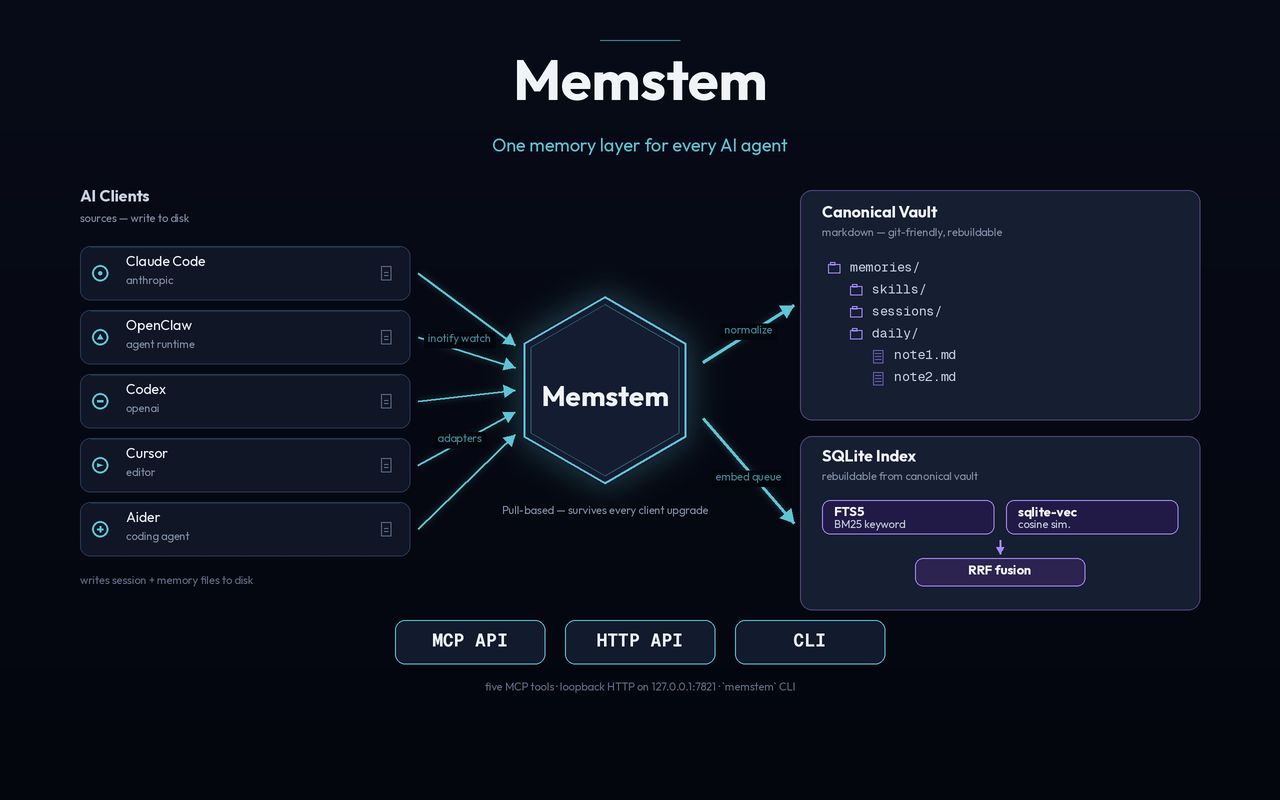
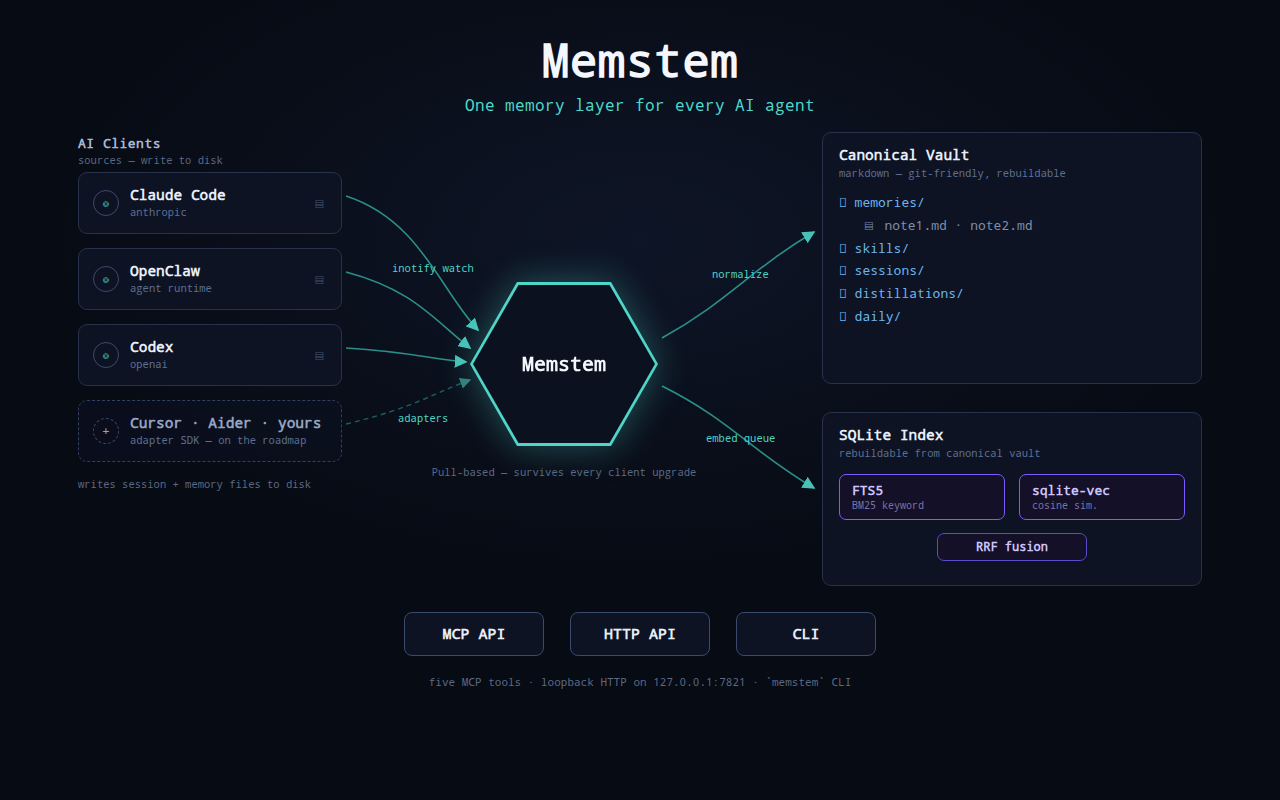
fix: hero image + README no longer overclaim adapter support (#141)
The hero diagram and README intro listed Cursor/Aider/Hermes as
connectable clients; only Claude Code, OpenClaw, and Codex adapters
exist (Cursor/Aider are unchecked Phase 3 roadmap items). The hero is
rebuilt from a committed HTML source (docs/images/src/hero.html — the
original was AI-image-generated with no editable source): three live
adapters plus a dashed roadmap card, vault tree gains distillations/
with correct sibling nesting, same visual identity. README/CLAUDE.md
text matched, and the HTTP bullet now notes 0.17.0's optional
bearer-token auth.

diff --git a/docs/images/src/hero.html b/docs/images/src/hero.html
@@ -1,0 +1,160 @@
+<!DOCTYPE html>
+<!-- Source for docs/images/hero.png — render at 1280x800 (see docs/images/src/README.md).
+     Edit this file and re-screenshot rather than regenerating the PNG by hand. -->
+<html>
+<head>
+<meta charset="utf-8">
+<style>
+  * { margin: 0; padding: 0; box-sizing: border-box; }
+  html, body { width: 1280px; height: 800px; overflow: hidden; }
+  body {
+    background: radial-gradient(ellipse 900px 500px at 50% 30%, #0e1526 0%, #070b14 65%);
+    font-family: ui-monospace, "SF Mono", "Cascadia Code", "JetBrains Mono", Menlo, Consolas, monospace;
+    color: #dbe4f3;
+    position: relative;
+  }
+  .title { position: absolute; top: 34px; width: 100%; text-align: center;
+    font-size: 46px; font-weight: 700; color: #f4f7fc; letter-spacing: 0.5px; }
+  .subtitle { position: absolute; top: 96px; width: 100%; text-align: center;
+    font-size: 16px; color: #4fd6c9; letter-spacing: 0.4px; }
+
+  .col-label { position: absolute; font-size: 13px; font-weight: 700; color: #aab8d4; letter-spacing: 0.5px; }
+  .col-note  { position: absolute; font-size: 10.5px; color: #5b6a85; }
+
+  .card { position: absolute; background: #0d1322; border: 1px solid #27314a; border-radius: 9px; }
+  .client-card { left: 78px; width: 264px; height: 62px; display: flex; align-items: center; padding: 0 14px; gap: 11px; }
+  .client-card .dot { width: 26px; height: 26px; border-radius: 50%; border: 1.5px solid #3b4a6b;
+    display: flex; align-items: center; justify-content: center; color: #4fd6c9; font-size: 13px; flex-shrink: 0; }
+  .client-card .nm { font-size: 14.5px; font-weight: 700; color: #e8eef9; }
+  .client-card .sub { font-size: 10.5px; color: #5f7094; margin-top: 2px; }
+  .client-card .doc { margin-left: auto; color: #44546f; font-size: 13px; }
+  .client-card.roadmap { border-style: dashed; border-color: #31405f; background: rgba(13,19,34,0.55); }
+  .client-card.roadmap .nm { color: #93a3c0; }
+  .client-card.roadmap .dot { color: #93a3c0; border-style: dashed; }
+
+  .hex-wrap { position: absolute; left: 470px; top: 282px; width: 188px; height: 164px;
+    filter: drop-shadow(0 0 18px rgba(79,214,201,0.35)); }
+  .hex-border { width: 188px; height: 164px; background: #4fd6c9;
+    clip-path: polygon(25% 0%, 75% 0%, 100% 50%, 75% 100%, 25% 100%, 0% 50%); position: absolute; }
+  .hex-inner { width: 182px; height: 158px; left: 3px; top: 3px; background: #0b111f;
+    clip-path: polygon(25% 0%, 75% 0%, 100% 50%, 75% 100%, 25% 100%, 0% 50%);
+    position: absolute; display: flex; align-items: center; justify-content: center; }
+  .hex-inner span { font-size: 20px; font-weight: 700; color: #f4f7fc; }
+  .hex-caption { position: absolute; left: 392px; top: 466px; width: 344px; text-align: center;
+    font-size: 10.5px; color: #5b6a85; }
+
+  .panel { padding: 14px 16px; }
+  .panel .hd { font-size: 14.5px; font-weight: 700; color: #e8eef9; }
+  .panel .hsub { font-size: 10.5px; color: #5f7094; margin-top: 3px; }
+  .vault { left: 822px; top: 132px; width: 380px; height: 252px; }
+  .tree { margin-top: 12px; font-size: 13px; line-height: 1.75; color: #9fb0cd; }
+  .tree .dir { color: #6db5f0; }
+  .tree .file { color: #7e8eab; }
+  .tree .ind1 { padding-left: 22px; }
+  .tree .ind2 { padding-left: 44px; }
+
+  .index { left: 822px; top: 412px; width: 380px; height: 174px; }
+  .chips { display: flex; gap: 14px; margin-top: 14px; }
+  .chip { border: 1.5px solid #7a5cff; border-radius: 7px; padding: 8px 12px; background: #131027; flex: 1; }
+  .chip .cn { font-size: 13px; font-weight: 700; color: #cfc4ff; }
+  .chip .cs { font-size: 10px; color: #7d74a8; margin-top: 2px; }
+  .fuse { margin: 13px auto 0; width: 150px; text-align: center; border: 1.5px solid #5a4bcf; border-radius: 7px;
+    padding: 6px 0; font-size: 12px; font-weight: 700; color: #cfc4ff; background: #131027; }
+
+  .api { position: absolute; top: 612px; height: 44px; border: 1.5px solid #3a4a6e; border-radius: 8px;
+    background: #0d1322; color: #e8eef9; font-size: 15px; font-weight: 700;
+    display: flex; align-items: center; justify-content: center; }
+  .footer { position: absolute; top: 676px; width: 100%; text-align: center; font-size: 11px; color: #5b6a85; }
+
+  .arrow-label { position: absolute; font-size: 10.5px; color: #4fd6c9; }
+  svg.arrows { position: absolute; left: 0; top: 0; width: 1280px; height: 800px; }
+</style>
+</head>
+<body>
+  <div class="title">Memstem</div>
+  <div class="subtitle">One memory layer for every AI agent</div>
+
+  <!-- arrows under the cards -->
+  <svg class="arrows" viewBox="0 0 1280 800">
+    <defs>
+      <marker id="ah" markerWidth="9" markerHeight="8" refX="7" refY="4" orient="auto">
+        <path d="M0,0 L8,4 L0,8 z" fill="#4fd6c9"/>
+      </marker>
+    </defs>
+    <g stroke="#2f9d93" stroke-width="1.6" fill="none" marker-end="url(#ah)" opacity="0.9">
+      <path d="M 346 196 C 420 220, 440 290, 478 330"/>
+      <path d="M 346 272 C 414 290, 434 320, 470 348"/>
+      <path d="M 346 348 C 414 352, 434 360, 466 362"/>
+      <path d="M 662 338 C 730 300, 750 270, 814 232"/>
+      <path d="M 662 386 C 730 420, 750 450, 814 488"/>
+    </g>
+    <g stroke="#2f9d93" stroke-width="1.4" fill="none" marker-end="url(#ah)" opacity="0.55" stroke-dasharray="5 4">
+      <path d="M 346 424 C 414 408, 436 392, 470 380"/>
+    </g>
+  </svg>
+
+  <div class="col-label" style="left:78px; top:136px;">AI Clients</div>
+  <div class="col-note" style="left:78px; top:154px;">sources — write to disk</div>
+
+  <div class="card client-card" style="top:172px;">
+    <div class="dot">◎</div>
+    <div><div class="nm">Claude Code</div><div class="sub">anthropic</div></div>
+    <div class="doc">▤</div>
+  </div>
+  <div class="card client-card" style="top:248px;">
+    <div class="dot">◎</div>
+    <div><div class="nm">OpenClaw</div><div class="sub">agent runtime</div></div>
+    <div class="doc">▤</div>
+  </div>
+  <div class="card client-card" style="top:324px;">
+    <div class="dot">◎</div>
+    <div><div class="nm">Codex</div><div class="sub">openai</div></div>
+    <div class="doc">▤</div>
+  </div>
+  <div class="card client-card roadmap" style="top:400px;">
+    <div class="dot">+</div>
+    <div><div class="nm">Cursor · Aider · yours</div><div class="sub">adapter SDK — on the roadmap</div></div>
+  </div>
+  <div class="col-note" style="left:78px; top:478px;">writes session + memory files to disk</div>
+
+  <div class="arrow-label" style="left:392px; top:262px;">inotify watch</div>
+  <div class="arrow-label" style="left:398px; top:412px;">adapters</div>
+
+  <div class="hex-wrap">
+    <div class="hex-border"></div>
+    <div class="hex-inner"><span>Memstem</span></div>
+  </div>
+  <div class="hex-caption">Pull-based — survives every client upgrade</div>
+
+  <div class="arrow-label" style="left:712px; top:268px;">normalize</div>
+  <div class="arrow-label" style="left:706px; top:432px;">embed queue</div>
+
+  <div class="card panel vault">
+    <div class="hd">Canonical Vault</div>
+    <div class="hsub">markdown — git-friendly, rebuildable</div>
+    <div class="tree">
+      <div class="dir">🗀 memories/</div>
+      <div class="file ind1">▤ note1.md · note2.md</div>
+      <div class="dir">🗀 skills/</div>
+      <div class="dir">🗀 sessions/</div>
+      <div class="dir">🗀 distillations/</div>
+      <div class="dir">🗀 daily/</div>
+    </div>
+  </div>
+
+  <div class="card panel index">
+    <div class="hd">SQLite Index</div>
+    <div class="hsub">rebuildable from canonical vault</div>
+    <div class="chips">
+      <div class="chip"><div class="cn">FTS5</div><div class="cs">BM25 keyword</div></div>
+      <div class="chip"><div class="cn">sqlite-vec</div><div class="cs">cosine sim.</div></div>
+    </div>
+    <div class="fuse">RRF fusion</div>
+  </div>
+
+  <div class="api" style="left:404px; width:140px;">MCP API</div>
+  <div class="api" style="left:570px; width:140px;">HTTP API</div>
+  <div class="api" style="left:736px; width:140px;">CLI</div>
+  <div class="footer">five MCP tools · loopback HTTP on 127.0.0.1:7821 · `memstem` CLI</div>
+</body>
+</html>

diff --git a/README.md b/README.md
@@ -17,7 +17,7 @@ Unified memory and skill infrastructure for AI agents. One canonical knowledge s
 
 Memstem is a **standalone memory service** that acts as the single source of truth for memories and skills shared across multiple AI environments. Unlike traditional memory layers that you push to from each AI, Memstem **pulls** from the filesystem of each connected AI — so it's immune to upgrade churn in any of them.
 
-Connect Claude Code, OpenClaw, Codex, Cursor, Aider, Hermes — Memstem watches each system's session and memory files, ingests new content within seconds, and exposes one unified search API via MCP.
+Connect Claude Code, OpenClaw, and Codex today — adapters for Cursor, Aider, and more are on the [roadmap](./ROADMAP.md). Memstem watches each system's session and memory files, ingests new content within seconds, and exposes one unified search API via MCP.
 
 ## Why
 
@@ -54,7 +54,8 @@ Shipping:
   markdown-canonical vault. Index is rebuildable from the files.
 - **Five MCP tools** (`memstem_search`, `_get`, `_list_skills`, `_get_skill`,
   `_upsert`) plus a co-hosted local HTTP API on `127.0.0.1:7821` for
-  first-party clients (CLI tools, future editor extensions).
+  first-party clients (CLI tools, future editor extensions), with optional
+  bearer-token auth for non-loopback deployments.
 - **Pluggable embedders** — Ollama (local default), OpenAI, Gemini, Voyage, or
   any OpenAI-compatible server — selectable via `_meta/config.yaml`. For a
   **self-hosted, no-cloud** setup the recommended embedder is

diff --git a/docs/images/src/README.md b/docs/images/src/README.md
@@ -1,0 +1,23 @@
+# Image sources
+
+`hero.html` is the editable source for `../hero.png`. The original hero was
+AI-image-generated (no editable source); this HTML/CSS rebuild replaced it so
+the diagram can be kept accurate as the project evolves.
+
+To re-render after editing:
+
+```bash
+cd docs/images/src && python3 -m http.server 8123 &
+# headless Chromium (e.g. via Playwright), viewport exactly 1280x800:
+#   page.setViewportSize({width: 1280, height: 800})
+#   page.goto("http://localhost:8123/hero.html")
+#   page.screenshot(path="../hero.png", scale="css")
+```
+
+Keep the diagram honest: only list adapters that actually ship (the dashed
+card is for roadmap items), and keep the vault tree in sync with the real
+layout (`memories/ skills/ sessions/ distillations/ daily/`).
+
+`../hybrid-search.png` has no source file (AI-generated); its pipeline
+(FTS5 BM25 + sqlite-vec cosine → RRF k=60) still matches `core/search.py` —
+verify against the code before any regeneration.

diff --git a/CLAUDE.md b/CLAUDE.md
@@ -5,7 +5,7 @@ Read it first; it tells you how to operate on this codebase.
 
 ## What this project is
 
-**Memstem** is a unified memory + skill infrastructure for AI agents. It pulls memories from multiple AI client filesystems (Claude Code, OpenClaw, Codex, Cursor, etc.) via `inotify` watchers, stores them as markdown files with YAML frontmatter, indexes them with SQLite (FTS5 + sqlite-vec) hybrid search, and exposes a unified MCP API.
+**Memstem** is a unified memory + skill infrastructure for AI agents. It pulls memories from multiple AI client filesystems (Claude Code, OpenClaw, and Codex today; more planned) via `inotify` watchers, stores them as markdown files with YAML frontmatter, indexes them with SQLite (FTS5 + sqlite-vec) hybrid search, and exposes a unified MCP API.
 
 Architectural advantage: immune to upgrade churn in any client because we depend only on the files each AI drops on disk — no hooks, no push APIs, no internal SDKs.
 

diff --git a/CHANGELOG.md b/CHANGELOG.md
@@ -7,6 +7,17 @@ and this project adheres to [Semantic Versioning](https://semver.org/spec/v2.0.0
 
 ## [Unreleased]
 
+### Fixed
+
+- **README hero image and intro no longer overclaim adapter support.** Both
+  listed Cursor/Aider (and Hermes in the text) as connectable clients; only
+  Claude Code, OpenClaw, and Codex adapters ship today. The hero is rebuilt
+  from an editable HTML source (`docs/images/src/hero.html` — the original
+  was AI-generated with no source) showing the three live adapters plus a
+  dashed roadmap card, and the vault tree now includes `distillations/` with
+  correct (sibling) nesting. README also now mentions the optional HTTP
+  bearer-token auth from 0.17.0.
+
 ### Added
 
 - **Memstem is on PyPI**: `pip install memstem` / `pipx install memstem`
